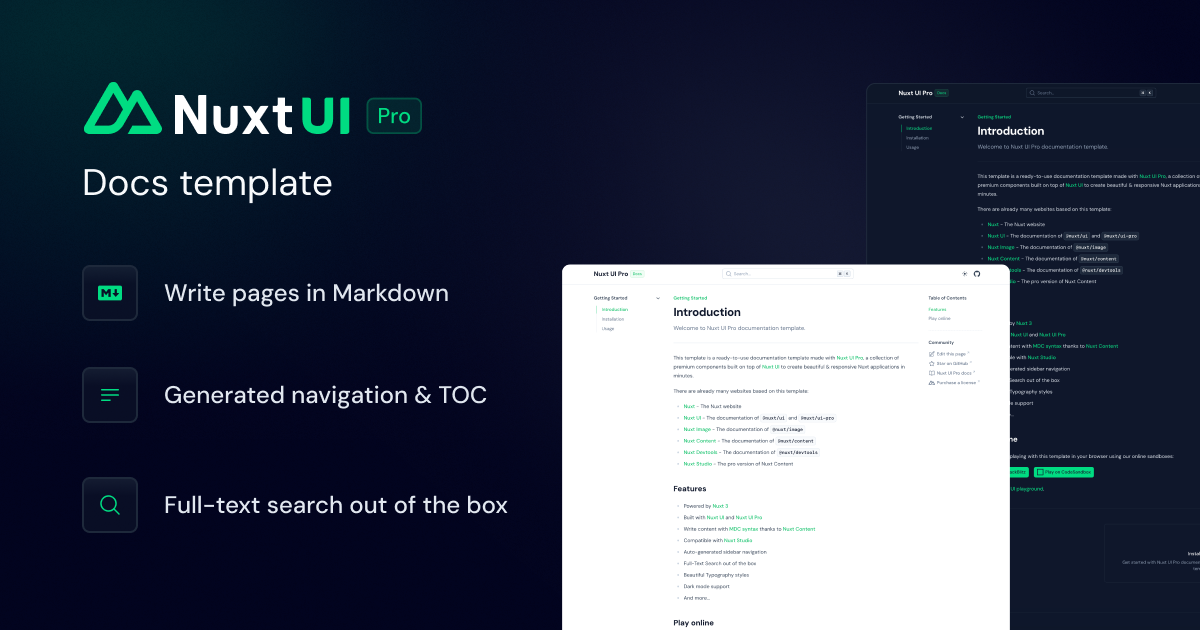
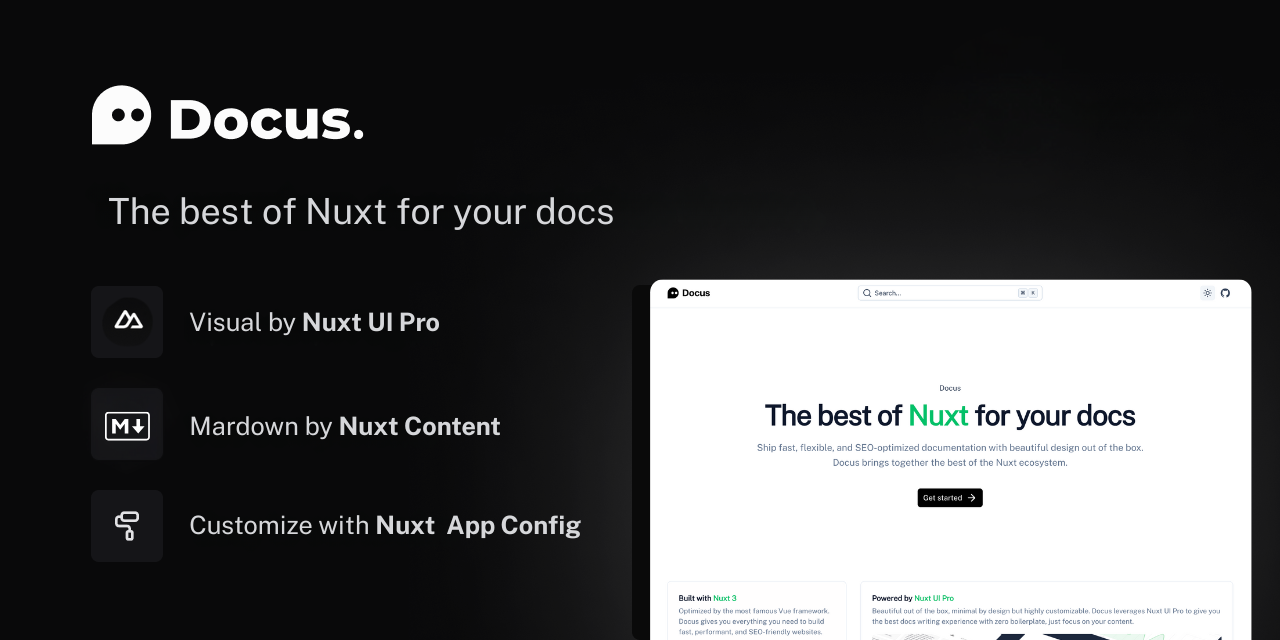
docs(seo): og image and social card

diff --git a/app/components/OgImage/OgImageDocs.vue b/app/components/OgImage/OgImageDocs.vue
@@ -21,7 +21,7 @@ const description = computed(() => (props.description || '').slice(0, 200))
       <g filter="url(#filter0_f_199_94966)">
         <path
           d="M628.5 -578L639.334 -94.4223L806.598 -548.281L659.827 -87.387L965.396 -462.344L676.925 -74.0787L1087.69 -329.501L688.776 -55.9396L1160.22 -164.149L694.095 -34.9354L1175.13 15.7948L692.306 -13.3422L1130.8 190.83L683.602 6.50012L1032.04 341.989L668.927 22.4412L889.557 452.891L649.872 32.7537L718.78 511.519L628.5 36.32L538.22 511.519L607.128 32.7537L367.443 452.891L588.073 22.4412L224.955 341.989L573.398 6.50012L126.198 190.83L564.694 -13.3422L81.8734 15.7948L562.905 -34.9354L96.7839 -164.149L568.224 -55.9396L169.314 -329.501L580.075 -74.0787L291.604 -462.344L597.173 -87.387L450.402 -548.281L617.666 -94.4223L628.5 -578Z"
-          fill="#00DC82"
+          fill="white"
         />
       </g>
       <defs>
@@ -55,7 +55,7 @@ const description = computed(() => (props.description || '').slice(0, 200))
     <div class="pl-[100px]">
       <p
         v-if="headline"
-        class="uppercase text-[24px] text-[#00DC82] mb-4 font-semibold"
+        class="uppercase text-[24px] text-white mb-4 font-semibold"
       >
         {{ headline }}
       </p>

diff --git a/docs/app.config.ts b/docs/app.config.ts
@@ -1,4 +1,8 @@
 export default defineAppConfig({
+  site: {
+    url: 'https://docus-v2.vercel.app',
+    name: 'Docus by Nuxt UI Pro',
+  },
   ui: {
     colors: {
       secondary: 'green',
